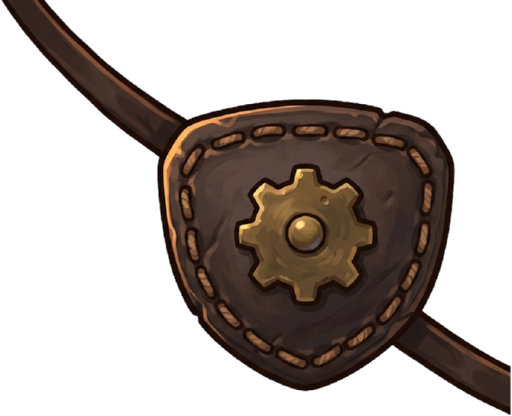
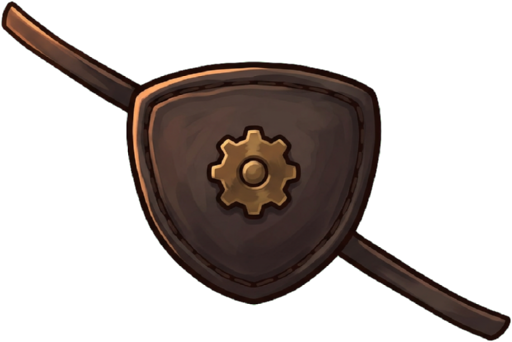
art(ART-B1): images 11-20 (9 pass, bandolier border-touch accepted)
8  eyewear-leather-eyepatch  PASS 512x342 - the regeneration worked: the strap tails
    now end inside the canvas, "69 opaque px touch the frame" is gone (prev commit).
11  headgear-miner-headlamp       PASS 512x312
12  headgear-spiked-pickelhaube   PASS 381x512
13  headgear-grease-bowler        PASS 512x327
14  headgear-scrap-crown          PASS 512x333
15  neck-spiked-collar            PASS 512x240
16  neck-gear-chain               PASS 469x512
17  neck-boiler-suit-collar       PASS 512x277
18  neck-tool-bandolier           WARN 512x279 - "707 opaque px touch the frame". The ticket
    prompt asks for the bandolier "cut off at the edges", i.e. it must run off canvas: the QA
    line is the same designed-crop flag ART-B2 accepted for the full-width garage bands
    (40c525b). Not treated as a defect; flagging it for ART-I1, which must not trim this part.
19  mouth-lower-tusks            PASS 512x259 (toxic-green lips for the tint mask)

Same pipeline as images 1-10: key-art.ts --set avatar-parts --only, then
scripts/fix-edge-magenta.mjs avatar-parts/keyed (10 sprites touched, 0 holes / 0 despill),
then re-keyed to confirm the verdicts survived the edge pass.

diff --git a/src/game/meta/painted-parts.generated.ts b/src/game/meta/painted-parts.generated.ts
@@ -11,7 +11,7 @@ export const KEYED_PARTS: Record<string, KeyedPartFile> = {
   'eyewear-clockwork-monocle': { file: '/avatar-parts/keyed/eyewear-clockwork-monocle.png', raw: 'art-src/avatar-parts/raw/eyewear-clockwork-monocle.png', sourceFormat: 'png', width: 458, height: 512, qa: {"verdict":"pass","key":[253,4,248],"keyDeviation":8,"coverage":0.431,"residualMagenta":65,"borderTouch":0,"notes":[]} },
   'eyewear-cracked-spectacles': { file: '/avatar-parts/keyed/eyewear-cracked-spectacles.png', raw: 'art-src/avatar-parts/raw/eyewear-cracked-spectacles.png', sourceFormat: 'png', width: 512, height: 208, qa: {"verdict":"pass","key":[254,38,251],"keyDeviation":38,"coverage":0.661,"residualMagenta":0,"borderTouch":0,"notes":[]} },
   'eyewear-cyclops-lens-rig': { file: '/avatar-parts/keyed/eyewear-cyclops-lens-rig.png', raw: 'art-src/avatar-parts/raw/eyewear-cyclops-lens-rig.png', sourceFormat: 'png', width: 512, height: 222, qa: {"verdict":"pass","key":[252,6,249],"keyDeviation":9,"coverage":0.614,"residualMagenta":106,"borderTouch":0,"notes":[]} },
-  'eyewear-leather-eyepatch': { file: '/avatar-parts/keyed/eyewear-leather-eyepatch.png', raw: 'art-src/avatar-parts/raw/eyewear-leather-eyepatch.png', sourceFormat: 'png', width: 512, height: 416, qa: {"verdict":"fail","key":[253,8,249],"keyDeviation":10,"coverage":0.382,"residualMagenta":104,"borderTouch":69,"notes":["69 opaque px touch the frame — subject cropped by generator"]} },
+  'eyewear-leather-eyepatch': { file: '/avatar-parts/keyed/eyewear-leather-eyepatch.png', raw: 'art-src/avatar-parts/raw/eyewear-leather-eyepatch.png', sourceFormat: 'png', width: 512, height: 342, qa: {"verdict":"pass","key":[252,3,250],"keyDeviation":7,"coverage":0.331,"residualMagenta":74,"borderTouch":0,"notes":[]} },
   'eyewear-racing-goggles': { file: '/avatar-parts/keyed/eyewear-racing-goggles.png', raw: 'art-src/avatar-parts/raw/eyewear-racing-goggles.png', sourceFormat: 'png', width: 512, height: 198, qa: {"verdict":"pass","key":[253,2,249],"keyDeviation":7,"coverage":0.784,"residualMagenta":78,"borderTouch":0,"notes":[]} },
   'eyewear-welding-goggles': { file: '/avatar-parts/keyed/eyewear-welding-goggles.png', raw: 'art-src/avatar-parts/raw/eyewear-welding-goggles.png', sourceFormat: 'png', width: 512, height: 213, qa: {"verdict":"pass","key":[253,5,251],"keyDeviation":7,"coverage":0.715,"residualMagenta":96,"borderTouch":0,"notes":[]} },
   'hair-mutton-chops': { file: '/avatar-parts/keyed/hair-mutton-chops.png', raw: 'art-src/avatar-parts/raw/hair-mutton-chops.png', sourceFormat: 'png', width: 512, height: 326, qa: {"verdict":"pass","key":[249,2,249],"keyDeviation":9,"coverage":0.403,"residualMagenta":7,"borderTouch":0,"notes":[]} },
@@ -19,6 +19,15 @@ export const KEYED_PARTS: Record<string, KeyedPartFile> = {
   'hair-wire-tufts': { file: '/avatar-parts/keyed/hair-wire-tufts.png', raw: 'art-src/avatar-parts/raw/hair-wire-tufts.png', sourceFormat: 'png', width: 512, height: 273, qa: {"verdict":"pass","key":[250,2,248],"keyDeviation":9,"coverage":0.452,"residualMagenta":2,"borderTouch":0,"notes":[]} },
   'headgear-aviator-helmet': { file: '/avatar-parts/keyed/headgear-aviator-helmet.png', raw: 'art-src/avatar-parts/raw/headgear-aviator-helmet.png', sourceFormat: 'png', width: 419, height: 512, qa: {"verdict":"pass","key":[253,4,250],"keyDeviation":7,"coverage":0.42,"residualMagenta":166,"borderTouch":0,"notes":[]} },
   'headgear-gear-tophat': { file: '/avatar-parts/keyed/headgear-gear-tophat.png', raw: 'art-src/avatar-parts/raw/headgear-gear-tophat.png', sourceFormat: 'png', width: 470, height: 512, qa: {"verdict":"pass","key":[253,20,250],"keyDeviation":21,"coverage":0.542,"residualMagenta":4,"borderTouch":0,"notes":[]} },
+  'headgear-grease-bowler': { file: '/avatar-parts/keyed/headgear-grease-bowler.png', raw: 'art-src/avatar-parts/raw/headgear-grease-bowler.png', sourceFormat: 'png', width: 512, height: 327, qa: {"verdict":"pass","key":[254,27,250],"keyDeviation":27,"coverage":0.715,"residualMagenta":1,"borderTouch":0,"notes":[]} },
+  'headgear-miner-headlamp': { file: '/avatar-parts/keyed/headgear-miner-headlamp.png', raw: 'art-src/avatar-parts/raw/headgear-miner-headlamp.png', sourceFormat: 'png', width: 512, height: 312, qa: {"verdict":"pass","key":[253,9,248],"keyDeviation":12,"coverage":0.622,"residualMagenta":106,"borderTouch":0,"notes":[]} },
+  'headgear-scrap-crown': { file: '/avatar-parts/keyed/headgear-scrap-crown.png', raw: 'art-src/avatar-parts/raw/headgear-scrap-crown.png', sourceFormat: 'png', width: 512, height: 333, qa: {"verdict":"pass","key":[253,12,252],"keyDeviation":13,"coverage":0.623,"residualMagenta":98,"borderTouch":0,"notes":[]} },
+  'headgear-spiked-pickelhaube': { file: '/avatar-parts/keyed/headgear-spiked-pickelhaube.png', raw: 'art-src/avatar-parts/raw/headgear-spiked-pickelhaube.png', sourceFormat: 'png', width: 381, height: 512, qa: {"verdict":"pass","key":[249,3,242],"keyDeviation":15,"coverage":0.589,"residualMagenta":5,"borderTouch":0,"notes":[]} },
   'mouth-gold-tusk-grin': { file: '/avatar-parts/keyed/mouth-gold-tusk-grin.png', raw: 'art-src/avatar-parts/raw/mouth-gold-tusk-grin.png', sourceFormat: 'png', width: 512, height: 203, qa: {"verdict":"pass","key":[252,3,250],"keyDeviation":7,"coverage":0.552,"residualMagenta":46,"borderTouch":0,"notes":[]} },
+  'mouth-lower-tusks': { file: '/avatar-parts/keyed/mouth-lower-tusks.png', raw: 'art-src/avatar-parts/raw/mouth-lower-tusks.png', sourceFormat: 'png', width: 512, height: 259, qa: {"verdict":"pass","key":[251,5,249],"keyDeviation":9,"coverage":0.706,"residualMagenta":56,"borderTouch":0,"notes":[]} },
+  'neck-boiler-suit-collar': { file: '/avatar-parts/keyed/neck-boiler-suit-collar.png', raw: 'art-src/avatar-parts/raw/neck-boiler-suit-collar.png', sourceFormat: 'png', width: 512, height: 277, qa: {"verdict":"pass","key":[251,3,246],"keyDeviation":10,"coverage":0.625,"residualMagenta":20,"borderTouch":0,"notes":[]} },
   'neck-brass-gorget': { file: '/avatar-parts/keyed/neck-brass-gorget.png', raw: 'art-src/avatar-parts/raw/neck-brass-gorget.png', sourceFormat: 'png', width: 512, height: 231, qa: {"verdict":"pass","key":[253,17,253],"keyDeviation":17,"coverage":0.618,"residualMagenta":24,"borderTouch":0,"notes":[]} },
+  'neck-gear-chain': { file: '/avatar-parts/keyed/neck-gear-chain.png', raw: 'art-src/avatar-parts/raw/neck-gear-chain.png', sourceFormat: 'png', width: 469, height: 512, qa: {"verdict":"pass","key":[254,23,253],"keyDeviation":23,"coverage":0.311,"residualMagenta":8,"borderTouch":0,"notes":[]} },
+  'neck-spiked-collar': { file: '/avatar-parts/keyed/neck-spiked-collar.png', raw: 'art-src/avatar-parts/raw/neck-spiked-collar.png', sourceFormat: 'png', width: 512, height: 240, qa: {"verdict":"pass","key":[251,2,245],"keyDeviation":11,"coverage":0.623,"residualMagenta":32,"borderTouch":0,"notes":[]} },
+  'neck-tool-bandolier': { file: '/avatar-parts/keyed/neck-tool-bandolier.png', raw: 'art-src/avatar-parts/raw/neck-tool-bandolier.png', sourceFormat: 'png', width: 512, height: 279, qa: {"verdict":"fail","key":[249,4,244],"keyDeviation":13,"coverage":0.466,"residualMagenta":52,"borderTouch":707,"notes":["707 opaque px touch the frame — subject cropped by generator"]} },
 };
